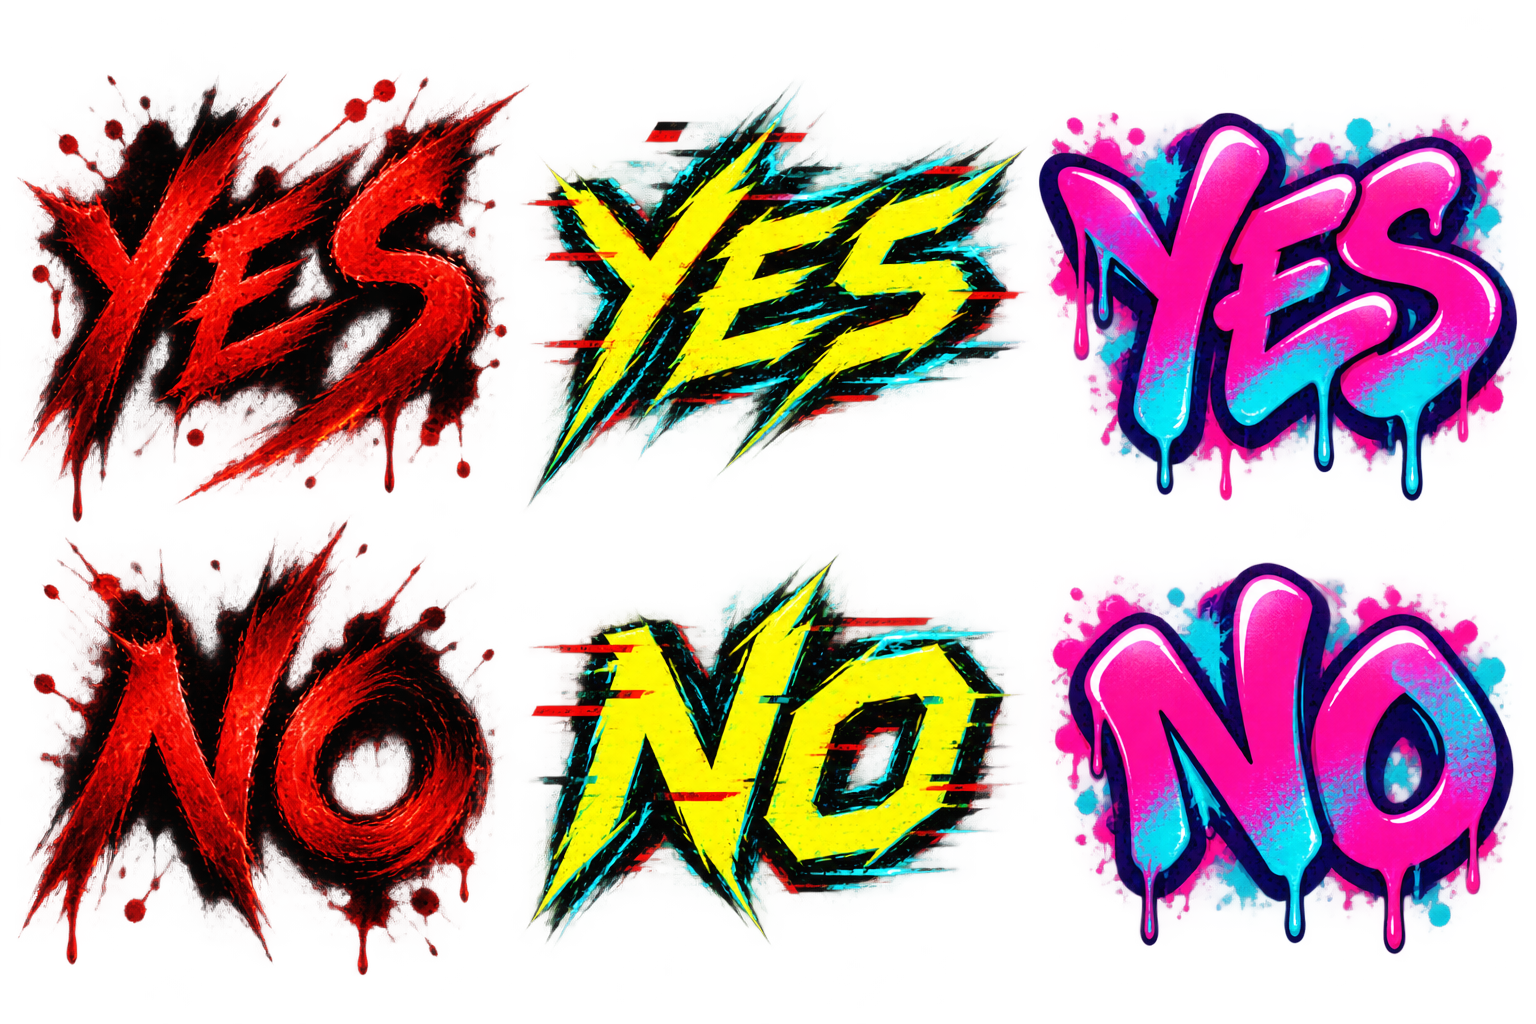
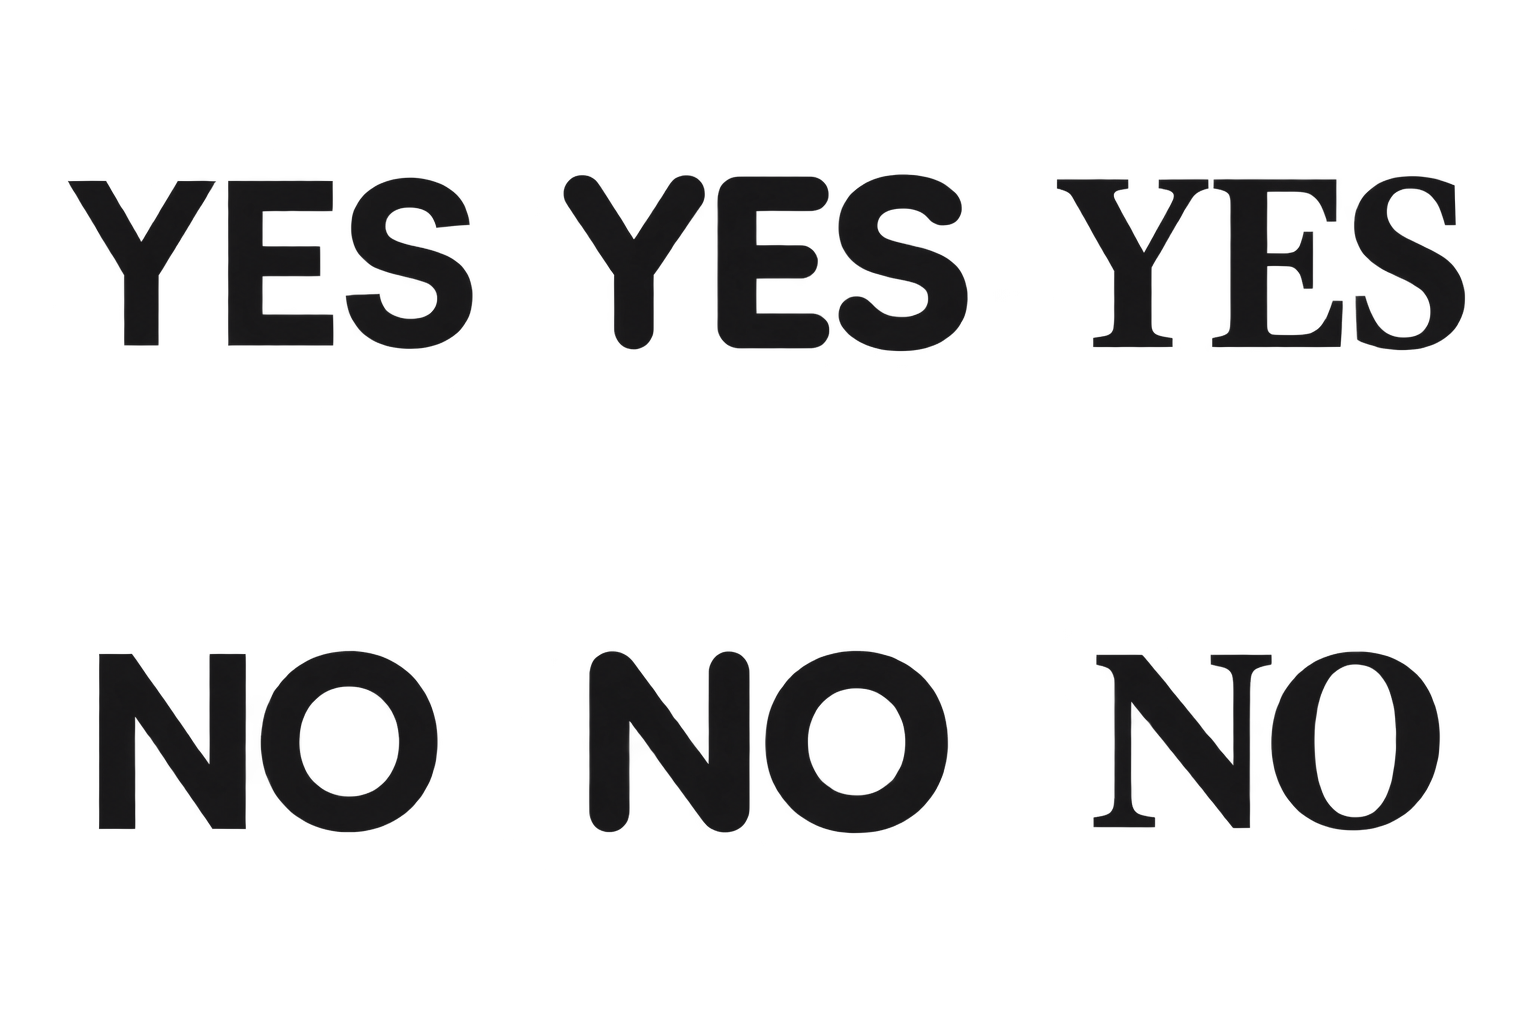
style: replace expressive decision lettering with minimal presets

diff --git a/src/windows/settings.rs b/src/windows/settings.rs
@@ -548,7 +548,7 @@ impl Settings {
                     parent,
                     340,
                     "文字风格",
-                    &["简洁文字", "血墨书法", "赛博故障", "霓虹涂鸦"],
+                    &["简洁文字", "清晰无衬线", "柔和圆角", "现代衬线"],
                     match c.theme.art_style {
                         ArtStyle::Plain => 0,
                         ArtStyle::Ink => 1,

diff --git a/src/config.rs b/src/config.rs
@@ -6,9 +6,10 @@ use std::{fs, path::Path};
 pub enum ArtStyle {
     #[default]
     Plain,
-    Ink,
-    Cyberpunk,
-    Graffiti,
+    // Keep serialized keys stable for saved themes and the Game Bar bridge.
+    Ink,       // Clear sans
+    Cyberpunk, // Soft rounded
+    Graffiti,  // Modern serif
 }
 
 #[derive(Clone, Copy, Debug, Default, PartialEq, Serialize, Deserialize)]

diff --git a/assets/README.md b/assets/README.md
@@ -1,11 +1,18 @@
 # Generated word-art atlas
 
-`wordart.png` is a transparent RGBA image generated with the image generation tool, revised following the owner's request for stronger Sekiro / Cyberpunk 2077 / Miami graffiti influences. It is an original typography asset, not an extracted game asset or a font file.
+`wordart.png` contains original generated YES/NO lettering for the light, minimal interface. It is transparent artwork, not an installable font or an embedded Apple typeface.
 
-- Dimensions: 1536 × 1024.
-- Three equal columns: blood-red ink, acid-yellow cyberpunk, hot-pink/turquoise graffiti.
-- Two equal rows: YES, NO.
-- Each sprite occupies a 512 × 512 source cell. Native Direct2D and the optional Game Bar widget select the same cells.
-- Plain text and user-selected PNG art remain available. Arbitrary labels do not acquire generated typography automatically.
+The design was reviewed against the actual [Apple font specimens](https://developer.apple.com/fonts/), [Apple typography guidance](https://developer.apple.com/design/human-interface-guidelines/typography) and [Inter display/UI specimens](https://rsms.me/inter/) before generation. The resulting styles use clear forms and readable strokes rather than hairlines, glow or decorative backgrounds.
 
-The original tool output remains in the session's generated-images directory; this tracked copy is used by the product.
+| Column | Visible preset | Saved key retained for compatibility |
+|---|---|---|
+| 0 | 清晰无衬线 / Clear sans | `Ink` |
+| 1 | 柔和圆角 / Soft rounded | `Cyberpunk` |
+| 2 | 现代衬线 / Modern serif | `Graffiti` |
+
+- Canvas: 1536 × 1024 RGBA, three columns, two rows; YES above NO.
+- Every source cell remains 512 × 512. Native Direct2D and Game Bar use the same atlas and crop layout. No new rendering path, dependency or idle work.
+- The generated source is preserved at `generated_images/exec-60a2c591-4144-4418-a544-0daf8fb6dad9.png` in the session workspace. Packaging clears RGB values only where alpha is zero and compresses the PNG; visible pixels and all alpha values were verified unchanged.
+- The previous atlas is preserved verbatim as [wordart-expressive.png](archive/wordart-expressive.png). Neither executable embedding nor Game Bar content includes that archive.
+- [Documentation preview](../docs/assets/wordart-preview.png) shows the new letters on a light surface for legibility in dark-mode readers. That surface is not part of the runtime atlas.
+- Plain text, arbitrary user labels and custom PNGs keep their existing behavior. These monochrome presets use their image colors; text-color changes apply to plain text.

diff --git a/README.md b/README.md
@@ -56,16 +56,16 @@
 - **浮窗背景**：在“外观”中独立调整背景不透明度，从完全透明到实色；文字清晰度不随背景改变。
 - **颜色与时长**：调整字体、文字与浮窗背景颜色、整体不透明度、字号和停留时间。
 - **位置与大小**：直接拖动、缩放悬浮组件，右键完成；也可以填写精确位置。
-- **字效与图片**：选择血墨书法、赛博故障或霓虹涂鸦，或为自己的答案选择透明 PNG。
+- **字效与图片**：选择清晰无衬线、柔和圆角或现代衬线，或为自己的答案选择透明 PNG。
 
 点击“预览效果”可以先看一眼。预览不会读取屏幕或请求模型，也不会保存你的改动；点击“完成”后设置才生效。“取消”会放弃本次更改。
 
 <details>
 <summary>看看三种字效</summary>
 
-![血墨书法、赛博故障、霓虹涂鸦三种 YES / NO 字效](assets/wordart.png)
+![清晰无衬线、柔和圆角、现代衬线三种透明 YES / NO 字效](docs/assets/wordart-preview.png)
 
-内置字效适用于 YES / NO，其他答案使用你选择的字体。自定义 PNG 会覆盖该答案的内置字效，保持透明背景并使用同一套动画。图片保留在原位置，移动文件后需要重新选择。
+三组内置字效使用克制的石墨黑，适用于 YES / NO，其他答案使用你选择的字体。字效保持图片本身的配色；想自由调整文字颜色时，可选择“简洁文字”。自定义 PNG 会覆盖该答案的内置字效，保持透明背景并使用同一套动画。图片保留在原位置，移动文件后需要重新选择。
 
 </details>
 

diff --git a/docs/validation.md b/docs/validation.md
@@ -29,3 +29,9 @@ The normal workflow runs five Windows core tests and builds/packages a portable 
 - Game Bar activation and compatibility, idle private working set/CPU, endurance and anti-cheat behavior. Targets remain ≤30 MB private working set and <0.1% average CPU for the hidden host, unmeasured.
 
 Follow [testing.md](testing.md) and record real evidence before a release. No stable-release or measured-memory claim follows from native compilation or file size.
+
+## Minimal word-art follow-up
+
+The new clear sans, rounded and serif YES/NO atlas follows a review of the actual Apple font specimens, Apple typography guidance and Inter specimens. The generated source remains in the workspace; the previous expressive atlas is archived outside embedded/package content. The runtime PNG decreased from 2,549,678 to 273,713 bytes. Packaging preserved every nontransparent RGBA pixel and every alpha value; all six 512-pixel cells contain glyphs with clear margins on a 1536 × 1024 canvas. The light-backed documentation specimen is a presentation of the transparent artwork, not a screenshot of the running application.
+
+Windows-GNU all-target compilation and four existing portable core groups passed locally. No new tests or broad release suite. The normal Windows checks also compile the optional component because its embedded artwork changed; actual small-widget/focus behavior remains part of the Windows release matrix.

diff --git a/CHANGELOG.md b/CHANGELOG.md
@@ -2,6 +2,8 @@
 
 ## 0.1.0 — Unreleased development preview
 
+- Replace the expressive YES/NO presets with clear sans, soft rounded and modern serif lettering, informed by actual Apple/Inter specimens. Preserve saved preset keys and archive the previous artwork outside packaged assets.
+
 - Light grouped settings inspired by the supplied ChatGPT iOS references: three main sections, white grouped rows, outline icons, compact navigation and quiet window chrome.
 - First-run model → decision setup; click-and-press shortcut recording, color pickers, secondary pages for advanced options, and direct widget layout editing.
 - Done saves and closes, Cancel discards, and the window close button offers to save unfinished work. Draft fields survive navigation; the four-second preview reads no screen and calls no model.
